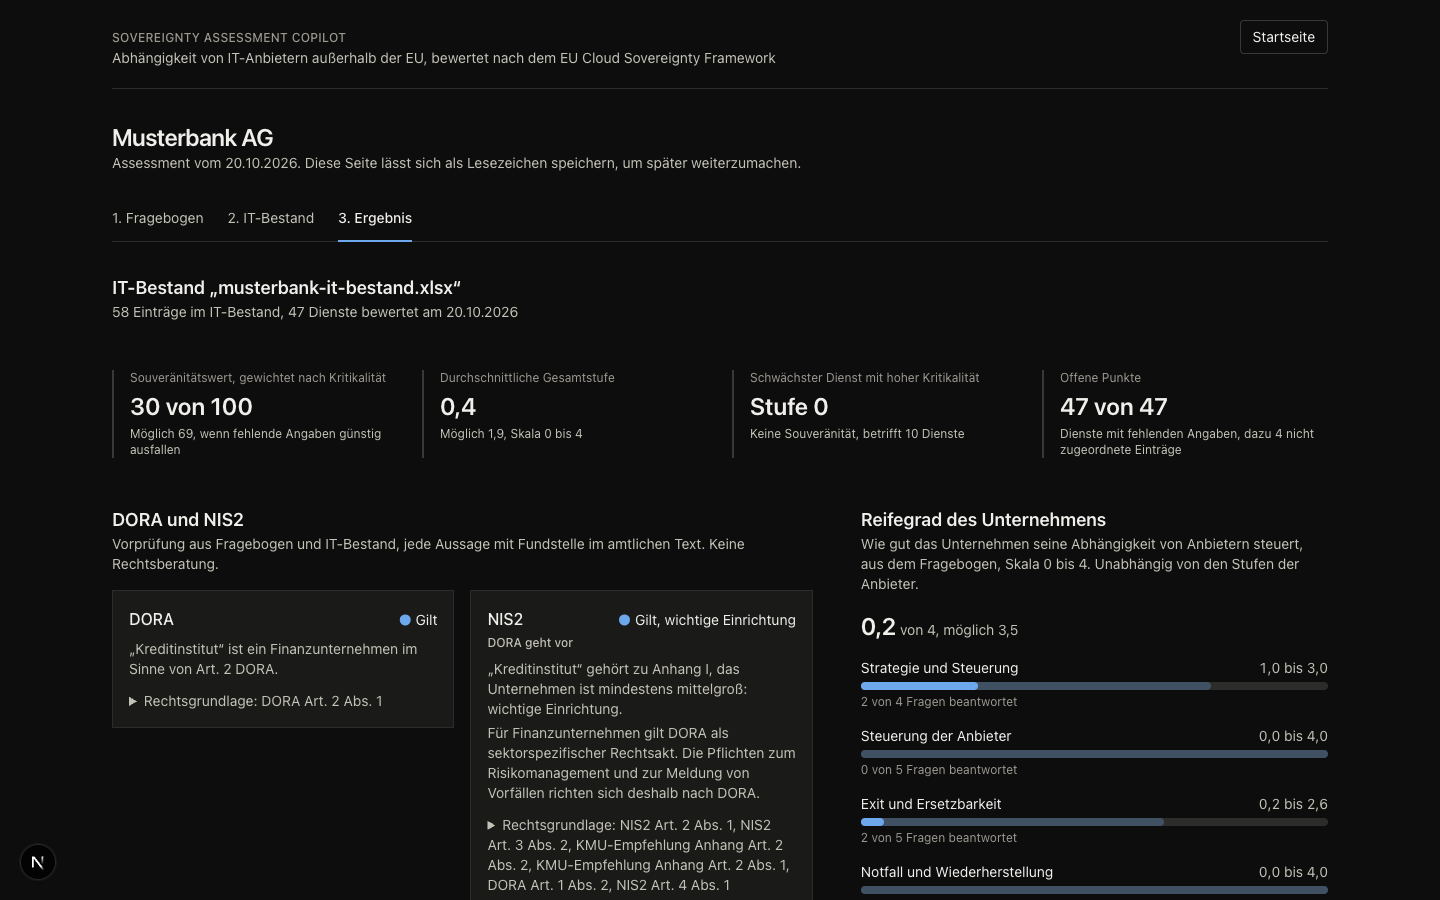
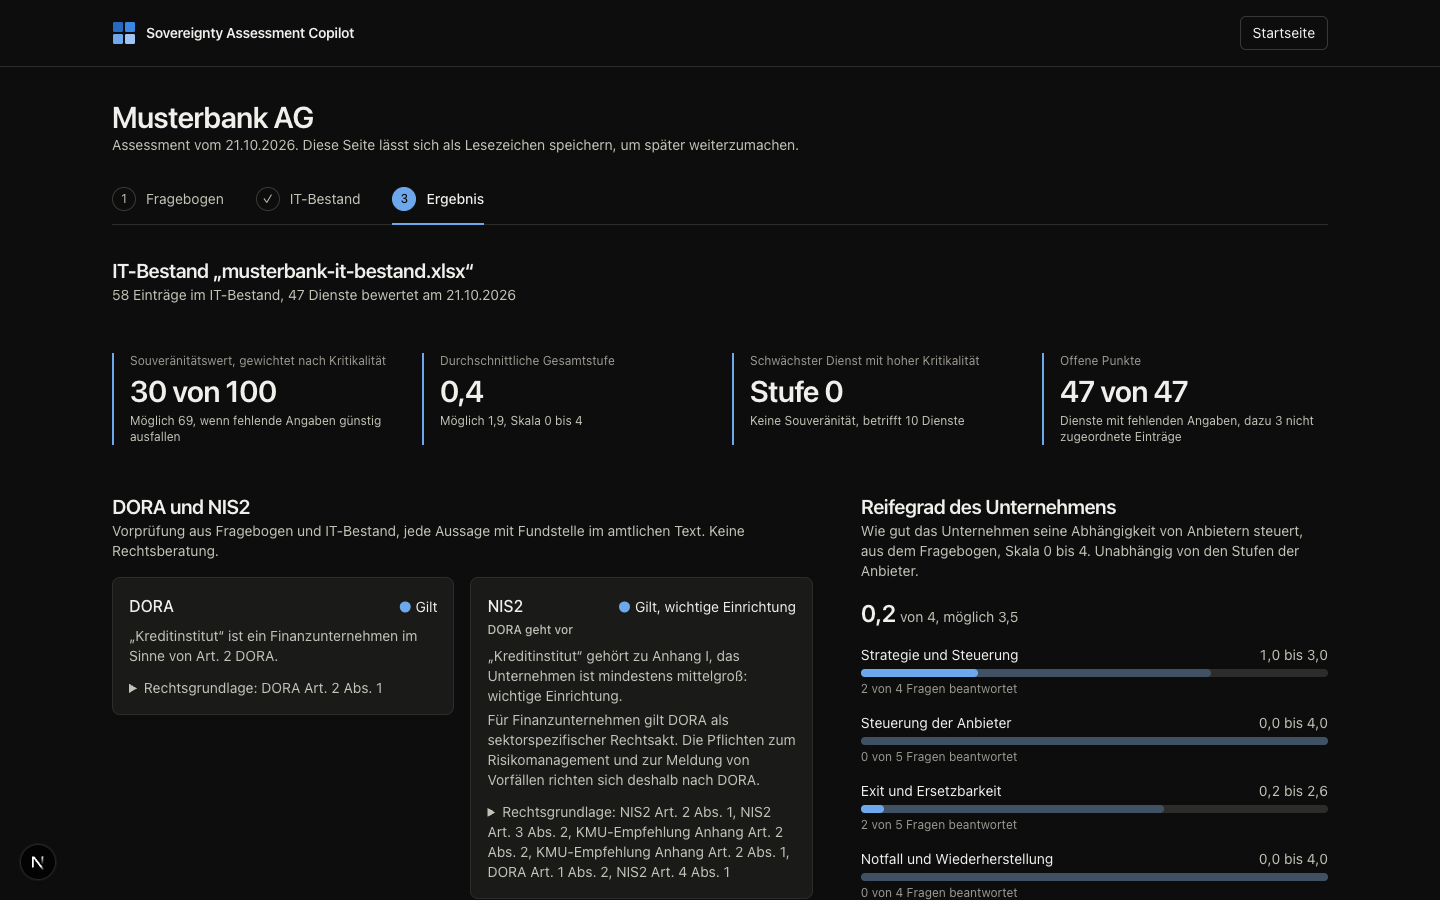
style: innere Seiten im Stil der Startseite
- Einheitliche Ecken (Knöpfe und Felder rounded-md, Karten rounded-lg)
- Größere Abschnittsüberschriften, Kennzahlen mit Akzentlinie
- Schritte des Assessments als nummerierte Kreise mit Haken für Erledigtes

diff --git a/frontend/src/components/AssessmentWorkspace.tsx b/frontend/src/components/AssessmentWorkspace.tsx
@@ -45,7 +45,7 @@ export default function AssessmentWorkspace({ id }: { id: number }) {
       actions={
         <Link
           href="/"
-          className="rounded border border-baseline px-3 py-1.5 text-sm hover:bg-surface focus-visible:outline-2 focus-visible:outline-accent"
+          className="rounded-md border border-baseline px-3 py-1.5 text-sm hover:bg-surface focus-visible:outline-2 focus-visible:outline-accent"
         >
           Startseite
         </Link>
@@ -72,9 +72,9 @@ export default function AssessmentWorkspace({ id }: { id: number }) {
 type Step = "questionnaire" | "inventory" | "result";
 
 const STEPS: { key: Step; label: string }[] = [
-  { key: "questionnaire", label: "1. Fragebogen" },
-  { key: "inventory", label: "2. IT-Bestand" },
-  { key: "result", label: "3. Ergebnis" },
+  { key: "questionnaire", label: "Fragebogen" },
+  { key: "inventory", label: "IT-Bestand" },
+  { key: "result", label: "Ergebnis" },
 ];
 
 function Ready({ questionnaire, initial }: { questionnaire: Questionnaire; initial: StoredAssessment }) {
@@ -91,7 +91,7 @@ function Ready({ questionnaire, initial }: { questionnaire: Questionnaire; initi
   return (
     <div className="space-y-8">
       <div>
-        <h1 className="text-2xl font-semibold tracking-tight">{initial.name}</h1>
+        <h1 className="text-3xl font-semibold tracking-tight">{initial.name}</h1>
         <p className="text-sm text-ink-secondary">
           Assessment vom {created}. Diese Seite lässt sich als Lesezeichen speichern, um später
           weiterzumachen.
@@ -99,19 +99,34 @@ function Ready({ questionnaire, initial }: { questionnaire: Questionnaire; initi
       </div>
 
       <nav aria-label="Schritte des Assessments" className="border-b border-hairline">
-        <ol className="-mb-px flex gap-6 overflow-x-auto">
-          {STEPS.map((item) => (
-            <li key={item.key} className="shrink-0">
-              <button
-                type="button"
-                onClick={() => go(item.key)}
-                aria-current={step === item.key ? "step" : undefined}
-                className="border-b-2 border-transparent pb-3 text-sm text-ink-secondary hover:text-ink focus-visible:outline-2 focus-visible:outline-accent aria-[current=step]:border-accent aria-[current=step]:font-medium aria-[current=step]:text-ink"
-              >
-                {item.label}
-              </button>
-            </li>
-          ))}
+        <ol className="-mb-px flex gap-8 overflow-x-auto">
+          {STEPS.map((item, index) => {
+            const current = step === item.key;
+            const done =
+              (item.key === "questionnaire" && assessment.progress.answered === assessment.progress.total) ||
+              (item.key === "inventory" && assessment.inventory !== null);
+            return (
+              <li key={item.key} className="shrink-0">
+                <button
+                  type="button"
+                  onClick={() => go(item.key)}
+                  aria-current={current ? "step" : undefined}
+                  className="flex items-center gap-2.5 border-b-2 border-transparent pb-3 text-sm text-ink-secondary hover:text-ink focus-visible:outline-2 focus-visible:outline-accent aria-[current=step]:border-accent aria-[current=step]:font-medium aria-[current=step]:text-ink"
+                >
+                  <span
+                    aria-hidden
+                    className={`tabular flex h-6 w-6 items-center justify-center rounded-full border text-xs ${
+                      current ? "border-accent bg-accent text-accent-ink" : "border-baseline"
+                    }`}
+                  >
+                    {done && !current ? "✓" : index + 1}
+                  </span>
+                  {item.label}
+                  {done && <span className="sr-only">(erledigt)</span>}
+                </button>
+              </li>
+            );
+          })}
         </ol>
       </nav>
 

diff --git a/frontend/src/components/questionnaire/QuestionnaireForm.tsx b/frontend/src/components/questionnaire/QuestionnaireForm.tsx
@@ -66,7 +66,7 @@ export default function QuestionnaireForm({ questionnaire, answers, errors, stat
                   type="button"
                   onClick={() => go(index)}
                   aria-current={index === current ? "step" : undefined}
-                  className="flex w-full items-baseline justify-between gap-3 rounded px-3 py-2 text-left text-sm hover:bg-surface focus-visible:outline-2 focus-visible:outline-accent aria-[current=step]:bg-surface aria-[current=step]:font-medium"
+                  className="flex w-full items-baseline justify-between gap-3 rounded-md px-3 py-2 text-left text-sm hover:bg-surface focus-visible:outline-2 focus-visible:outline-accent aria-[current=step]:bg-surface aria-[current=step]:font-medium"
                 >
                   <span className="whitespace-nowrap">{item.title}</span>
                   <span className="tabular text-xs text-ink-muted">
@@ -106,7 +106,7 @@ export default function QuestionnaireForm({ questionnaire, answers, errors, stat
             <button
               type="button"
               onClick={() => go(current - 1)}
-              className="rounded border border-baseline px-4 py-2 text-sm hover:bg-surface focus-visible:outline-2 focus-visible:outline-accent"
+              className="rounded-md border border-baseline px-4 py-2 text-sm hover:bg-surface focus-visible:outline-2 focus-visible:outline-accent"
             >
               Zurück
             </button>
@@ -117,7 +117,7 @@ export default function QuestionnaireForm({ questionnaire, answers, errors, stat
             <button
               type="button"
               onClick={() => go(current + 1)}
-              className="rounded bg-accent px-4 py-2 text-sm font-medium text-accent-ink hover:opacity-90 focus-visible:outline-2 focus-visible:outline-offset-2 focus-visible:outline-accent"
+              className="rounded-md bg-accent px-4 py-2 text-sm font-medium text-accent-ink hover:opacity-90 focus-visible:outline-2 focus-visible:outline-offset-2 focus-visible:outline-accent"
             >
               Weiter: {sections[current + 1].title}
             </button>
@@ -126,7 +126,7 @@ export default function QuestionnaireForm({ questionnaire, answers, errors, stat
               <button
                 type="button"
                 onClick={onFinish}
-                className="rounded bg-accent px-4 py-2 text-sm font-medium text-accent-ink hover:opacity-90 focus-visible:outline-2 focus-visible:outline-offset-2 focus-visible:outline-accent"
+                className="rounded-md bg-accent px-4 py-2 text-sm font-medium text-accent-ink hover:opacity-90 focus-visible:outline-2 focus-visible:outline-offset-2 focus-visible:outline-accent"
               >
                 Weiter: IT-Bestand
               </button>

diff --git a/frontend/src/components/Heatmap.tsx b/frontend/src/components/Heatmap.tsx
@@ -73,7 +73,7 @@ export default function Heatmap({ services, onSelect }: Props) {
     <section aria-labelledby="heatmap-title">
       <div className="flex flex-wrap items-end justify-between gap-4">
         <div>
-          <h2 id="heatmap-title" className="text-lg font-semibold">
+          <h2 id="heatmap-title" className="text-xl font-semibold tracking-tight">
             Heatmap: Dienste und Zielbereiche
           </h2>
           <p className="text-sm text-ink-secondary">
@@ -83,7 +83,7 @@ export default function Heatmap({ services, onSelect }: Props) {
         <LevelLegend />
       </div>
 
-      <div className="mt-4 overflow-x-auto border border-hairline bg-surface">
+      <div className="mt-4 overflow-x-auto rounded-lg border border-hairline bg-surface">
         <table className="w-full min-w-[56rem] border-collapse text-sm">
           <caption className="sr-only">
             Stufe je Dienst und Zielbereich, gesicherte Stufe mit möglicher Stufe bei fehlenden Angaben
@@ -175,7 +175,7 @@ export default function Heatmap({ services, onSelect }: Props) {
       {tooltip && (
         <div
           role="tooltip"
-          className="pointer-events-none fixed z-50 max-w-xs -translate-x-1/2 border border-hairline bg-surface px-3 py-2 text-xs shadow-sm"
+          className="pointer-events-none fixed z-50 max-w-xs -translate-x-1/2 rounded-lg border border-hairline bg-surface px-3 py-2 text-xs shadow-sm"
           style={{ left: tooltip.x, top: tooltip.y }}
         >
           <p className="font-medium">{tooltip.title}</p>

diff --git a/frontend/src/components/questionnaire/QuestionField.tsx b/frontend/src/components/questionnaire/QuestionField.tsx
@@ -42,7 +42,7 @@ export default function QuestionField({ question, number, value, error, onSave, 
           {question.options.map((option) => (
             <label
               key={option.value}
-              className="flex cursor-pointer items-start gap-3 rounded border border-hairline px-3 py-2 text-sm hover:border-baseline has-[:checked]:border-accent has-[:checked]:bg-page has-[:focus-visible]:outline-2 has-[:focus-visible]:outline-accent"
+              className="flex cursor-pointer items-start gap-3 rounded-md border border-hairline px-3 py-2 text-sm hover:border-baseline has-[:checked]:border-accent has-[:checked]:bg-page has-[:focus-visible]:outline-2 has-[:focus-visible]:outline-accent"
             >
               <input
                 type="radio"
@@ -123,7 +123,7 @@ function NumberInput({
         onKeyDown={(event) => {
           if (event.key === "Enter") commit();
         }}
-        className="tabular w-40 rounded border border-baseline bg-page px-3 py-2 text-sm focus-visible:outline-2 focus-visible:outline-accent aria-[invalid=true]:border-critical"
+        className="tabular w-40 rounded-md border border-baseline bg-page px-3 py-2 text-sm focus-visible:outline-2 focus-visible:outline-accent aria-[invalid=true]:border-critical"
       />
       {question.unit && <span className="text-sm text-ink-secondary">{question.unit}</span>}
     </div>

diff --git a/frontend/src/components/assessment/InventoryStep.tsx b/frontend/src/components/assessment/InventoryStep.tsx
@@ -67,7 +67,7 @@ export default function InventoryStep({ assessment, onUploaded }: Props) {
         </div>
       )}
 
-      <div className="mt-6 border border-hairline bg-surface p-5">
+      <div className="mt-6 rounded-lg border border-hairline bg-surface p-5">
         {state.kind === "uploading" ? (
           <p role="status" aria-live="polite" className="text-sm">
             „{state.name}“ wird zugeordnet und bewertet. Mit KI-Zuordnung kann das bis zu einer
@@ -93,7 +93,7 @@ export default function InventoryStep({ assessment, onUploaded }: Props) {
             <button
               type="button"
               onClick={() => input.current?.click()}
-              className="rounded bg-accent px-4 py-2 text-sm font-medium text-accent-ink hover:opacity-90 focus-visible:outline-2 focus-visible:outline-offset-2 focus-visible:outline-accent"
+              className="rounded-md bg-accent px-4 py-2 text-sm font-medium text-accent-ink hover:opacity-90 focus-visible:outline-2 focus-visible:outline-offset-2 focus-visible:outline-accent"
             >
               {stored ? "Neuen IT-Bestand hochladen" : "IT-Bestand hochladen"}
             </button>

diff --git a/frontend/src/components/Roadmap.tsx b/frontend/src/components/Roadmap.tsx
@@ -9,7 +9,7 @@ function change(measure: Measure) {
 export default function Roadmap({ roadmap }: { roadmap: Assessment["roadmap"] }) {
   return (
     <section aria-labelledby="roadmap-title">
-      <h2 id="roadmap-title" className="text-lg font-semibold">Roadmap in drei Wellen</h2>
+      <h2 id="roadmap-title" className="text-xl font-semibold tracking-tight">Roadmap in drei Wellen</h2>
       <p className="text-sm text-ink-secondary">
         Priorität ist Kritikalität mal Abstand zur Höchststufe. Klärungen kommen zuerst, Migrationen mit hohem Aufwand zuletzt.
       </p>
@@ -41,7 +41,7 @@ export default function Roadmap({ roadmap }: { roadmap: Assessment["roadmap"] })
       </ol>
 
       {roadmap.measures.length > 0 && (
-        <div className="mt-8 overflow-x-auto border border-hairline bg-surface">
+        <div className="mt-8 overflow-x-auto rounded-lg border border-hairline bg-surface">
           <table className="w-full min-w-[40rem] text-sm">
             <caption className="px-3 py-2 text-left font-medium">Wirkung der Maßnahmen</caption>
             <thead>

diff --git a/frontend/src/components/assessment/RegulationPanel.tsx b/frontend/src/components/assessment/RegulationPanel.tsx
@@ -26,7 +26,7 @@ export default function RegulationPanel({ regulation, doraHints, onOpenQuestionn
 
   return (
     <section aria-labelledby="regulation-title">
-      <h2 id="regulation-title" className="text-lg font-semibold">
+      <h2 id="regulation-title" className="text-xl font-semibold tracking-tight">
         DORA und NIS2
       </h2>
       <p className="text-sm text-ink-secondary">
@@ -98,7 +98,7 @@ export default function RegulationPanel({ regulation, doraHints, onOpenQuestionn
 function RegimeCard({ regime, superseded }: { regime: Regime; superseded: boolean }) {
   const status = STATUS[regime.status];
   return (
-    <div className="border border-hairline bg-surface p-4">
+    <div className="rounded-lg border border-hairline bg-surface p-4">
       <div className="flex items-baseline justify-between gap-3">
         <h3 className="font-medium">{regime.law}</h3>
         <span className="text-sm">

diff --git a/frontend/src/components/Results.tsx b/frontend/src/components/Results.tsx
@@ -28,9 +28,9 @@ export default function Results({ assessment, insert, nested = false }: Props) {
     <div className="space-y-12">
       <div>
         {nested ? (
-          <h2 className="text-lg font-semibold">IT-Bestand „{inventory.name}“</h2>
+          <h2 className="text-xl font-semibold tracking-tight">IT-Bestand „{inventory.name}“</h2>
         ) : (
-          <h1 className="text-2xl font-semibold tracking-tight">{inventory.name}</h1>
+          <h1 className="text-3xl font-semibold tracking-tight">{inventory.name}</h1>
         )}
         <p className="text-sm text-ink-secondary">
           {inventory.entries} Einträge im IT-Bestand, {assessment.services.length} Dienste bewertet am {date}

diff --git a/frontend/src/components/Shell.tsx b/frontend/src/components/Shell.tsx
@@ -17,7 +17,7 @@ export default function Shell({ children, actions, wide = false }: Props) {
         <div className="mx-auto flex max-w-7xl items-center justify-between gap-4 px-4 py-4 sm:px-6 lg:px-8">
           <Link
             href="/"
-            className="flex items-center gap-2.5 rounded focus-visible:outline-2 focus-visible:outline-offset-4 focus-visible:outline-accent"
+            className="flex items-center gap-2.5 rounded-md focus-visible:outline-2 focus-visible:outline-offset-4 focus-visible:outline-accent"
           >
             <Logo />
             <span className="text-sm font-semibold tracking-tight">Sovereignty Assessment Copilot</span>

diff --git a/frontend/src/components/UnmatchedList.tsx b/frontend/src/components/UnmatchedList.tsx
@@ -4,7 +4,7 @@ export default function UnmatchedList({ unmatched }: { unmatched: Assessment["un
   if (unmatched.length === 0) return null;
   return (
     <section aria-labelledby="unmatched-title">
-      <h2 id="unmatched-title" className="text-lg font-semibold">Nicht zugeordnete Einträge</h2>
+      <h2 id="unmatched-title" className="text-xl font-semibold tracking-tight">Nicht zugeordnete Einträge</h2>
       <p className="text-sm text-ink-secondary">
         Diese Einträge konnte das Tool keinem Dienst sicher zuordnen. Meist sind es Eigenentwicklungen oder Dienste, die noch nicht in der Datenbank stehen. Sie sind nicht bewertet.
       </p>

diff --git a/frontend/src/components/QuestionCatalog.tsx b/frontend/src/components/QuestionCatalog.tsx
@@ -5,7 +5,7 @@ export default function QuestionCatalog({ questions }: { questions: Question[] }
   const providers = [...new Set(questions.map((question) => question.provider))];
   return (
     <section aria-labelledby="questions-title">
-      <h2 id="questions-title" className="text-lg font-semibold">Fragen an die Anbieter</h2>
+      <h2 id="questions-title" className="text-xl font-semibold tracking-tight">Fragen an die Anbieter</h2>
       <p className="text-sm text-ink-secondary">
         Aus jeder fehlenden Angabe wird eine Frage. Kernfragen halten die Gesamtstufe unten und gehören in den ersten Workshop.
       </p>

diff --git a/frontend/src/components/KpiStrip.tsx b/frontend/src/components/KpiStrip.tsx
@@ -9,9 +9,9 @@ interface Props {
 
 function Tile({ label, value, detail }: { label: string; value: string; detail: string }) {
   return (
-    <div className="border-l-2 border-baseline pl-4">
+    <div className="border-l-2 border-accent pl-4">
       <dt className="text-xs text-ink-muted">{label}</dt>
-      <dd className="mt-1 text-2xl font-semibold">{value}</dd>
+      <dd className="mt-1 text-3xl font-semibold tracking-tight">{value}</dd>
       <dd className="mt-1 text-xs text-ink-secondary">{detail}</dd>
     </div>
   );
